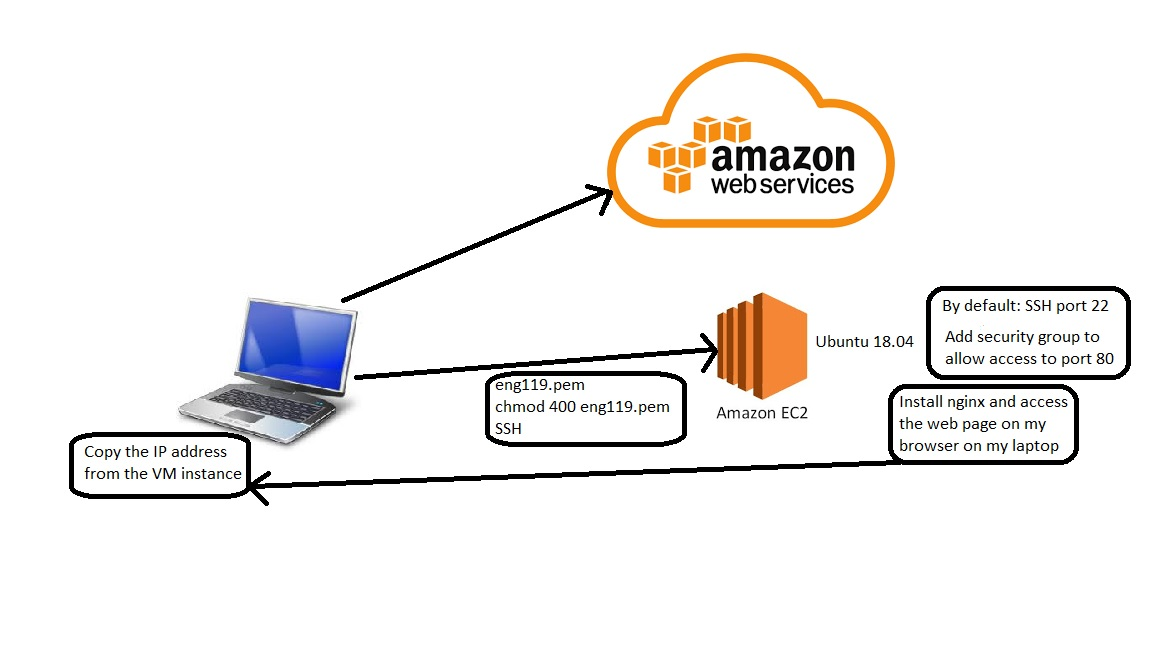
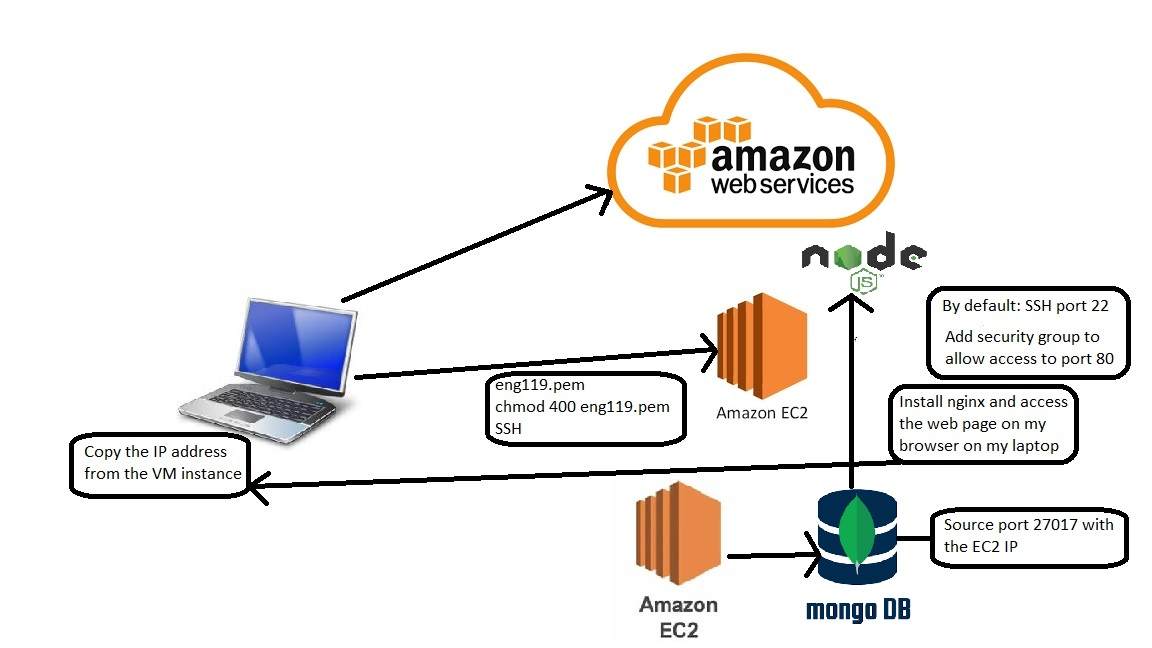
2tier arch

Changed region(s): [[0.5312, 0.3704, 1.0, 0.9877]]

diff --git a/README.md b/README.md
@@ -150,16 +150,11 @@ The client will give us the especifications according to 3 constrains:
 # 1 
 
 - Every day the IP address changes
-- I need to reselect the IP for the security group to allow it
+- I need to reselect the IP for the security group to allow it (my ip)
 - scp file.pem localhost/address destination/address
-cp app home/ubuntu/app
 
-scp -i ~/.ssh/eng119.pem -r ~/DevOps/devops/starter-code/app ubuntu@ec2-3-249-220-177.eu-west-1.compute.amazonaws.com:~/home/ubuntu/app
-
-
-
-"C:\DevOps\devops\starter-code\app"
-"C:\DevOps\devops\app"
+from root:
+scp -i ~/.ssh/eng119.pem -r ~/Documents/app ubuntu@ec2-34-254-200-213.eu-west-1.compute.amazonaws.com:~/devops/app
 
 rsaync also can be used
 - enter new IP
@@ -181,16 +176,7 @@ spin up a new EC2 instance in eu-west-1 (Ireland)
 create a security group to allow required ports 27017
 port 22
 
-
 export DB_HOST=mongodb://3.248.187.17:27017/posts
-
-VM
-ssh -i "eng119.pem" ubuntu@ec2-3-249-220-177.eu-west-1.compute.amazonaws.com
-3.249.220.177
-
-DB
-ssh -i "eng119.pem" ubuntu@ec2-3-248-187-17.eu-west-1.compute.amazonaws.com
-3-248-187-17
 
 # Create 2 new instances and do everything again
 
@@ -203,24 +189,12 @@ Add port 80, allow from anywhere
 
 Custom TCP Rule: 27017  IP/32
 
-VM Public IP address = 52.48.86.22
-ssh -i "eng119.pem" ubuntu@ec2-52-48-86-22.eu-west-1.compute.amazonaws.com
-
-2) Create a new instance to install the Mongo database
-
-- create a new security group and add the VM IP address
-
-DB = 3.249.117.186
-ssh -i "eng119.pem" ubuntu@ec2-3-249-117-186.eu-west-1.compute.amazonaws.com
-
-
-
-
-3) Copy the app files into the VM
+2) Copy the app files into the VM
 
 - clone the repository into the VM
 - install nginx `sudo apt-get install nginx`
 - install nodejs 
+
 `sudo apt install software-properties-common -y 
 curl -sL https://deb.nodesource.com/setup_12.x | sudo -E bash -
 sudo apt-get install nodejs -y`
@@ -229,17 +203,14 @@ sudo apt-get install nodejs -y`
 - start npm
 - the app should be available on port 3000
 
+3) Create a new EC2 instance to install Mongodb on it
 
-4) Create a new EC2 instance to install Mongodb on it
-
-5) Create a new security group for the new EC2 instance
+- Create a new security group for the new EC2 instance
 
 - configure 2 rules: 
 
 1- SSH, port 22, myIP
-2- HTTP, PORT 27017 
-
-
+2- HTTP, PORT 27017: allow the EC2 with the app to connect with the db
 
 
     sudo apt-key adv --keyserver hkp://keyserver.ubuntu.com:80 --recv D68FA50FEA312927
@@ -248,16 +219,215 @@ sudo apt-get install nodejs -y`
     
     sudo apt-get install -y mongodb-org=3.2.20 mongodb-org-server=3.2.20 mongodb-org-shell=3.2.20 mongodb-org-mongos=3.2.20 mongodb-org-tools=3.2.20
 
-sudo systemctl mongod status active
 
 export DB_HOST=mongodb://34.242.3.202:27017/posts
 
 node app.js
 
-config.sys: change to 0.0.0.0
+create env DB_HOST:mongodb://db-ip-add:27017/posts
 
-printvar 
+cd /etc
+sudo nano mongo.conf
+config.sys: 
+# network interfaces
+bindIp: 0.0.0.0
+change to 0.0.0.0
 
+(check if the changes were saved)
+cat mongo.conf
+
+restart mongodb
+
+
+sudo systemctl start mongod
+sudo systemctl restart mongod
+sudo systemctl enable mongod
+sudo systemctl status mongod
+
+if I need to stop the nginx process
+
+ps aux
+get the node id
+sudo kill id=1282
+
+
+# Amazon Machine Images (AMI)
+
+## Building an AMI
+
+/app
+(put the ip from the data instance)
+sudo echo "export DB_HOST=mongodb://54.75.82.219:27017/posts" >> ~/.bashrc
+source ~/.bashrc
+printenv DB_HOST
+
+sre_jenkins_cicd
+/environment/db
+
+
+# Architecting on AWS: Building a Two-Tier Application
+
+Add diagram 1 - 2
+
+This is an example of architecting on AWS to build a common two-tier application deployment.
+
+The notion of a scalable, on-demand, pay-as-you-go cloud infrastructure tends to be easily understood by the majority of today’s IT specialists. However, in order to fully reap the benefits from hosting solutions in the cloud, you will have to rethink traditional ‘on-premises’ design approaches. This should happen for a variety of reasons with the most prominent ones the design-for-costs or the adoption of a design-for-failure approach.
+
+A two-tier architecture is a software architecture in which a presentation layer or interface runs on a client, and a data layer or data structure gets stored on a server. Separating these two components into different locations represents a two-tier architecture, as opposed to a single-tier architecture.
+
+On the client application side the code is written for saving the data in the SQL server database. Client sends the request to the server and it processes the request & sends it back with data. The main problem of two tier architecture is the server cannot respond to multiple requests at the same time, as a result it causes a data integrity issue.
+
+It’s also called server-client technology.
+
+Advantages:
+
+-Easy to maintain and modification is bit easy
+-Communication is faster
+
+Disadvantages:
+
+-In two tier architecture application performance will be degraded as soon as the number of users increases.
+-Cost-ineffective
+
+## 1) Client Application (Client Tier)
+
+I will create an EC2 instance and install nginx, which is an open-source web server that can also be used as a reverse proxy.
+It's open source and free to use, so anyone can download and install the software and use it to host a website. 
+The NGINX software has not been installed on your computer – it runs only on computers that are serving web pages.
+
+I also need to move the files with the web application from my laptop into the EC2 instance. 
+The Unix command scp (which stands for "secure copy protocol") is a simple tool for uploading or downloading files.
+
+`scp -i ~/.ssh/eng119.pem -r ~/Downloads/app ubuntu@ec2-54-74-247-127.eu-west-1.compute.amazonaws.com:~`
+
+SSH into the EC2 instance and install all the required dependencies:
+
+- Check if I have internet access into the EC2 instance: `sudo apt-get update` `sudo apt-get upgrade`
+- Nginx (web server): `sudo apt-get install nginx`
+- Nodejs: 
+
+`sudo apt install software-properties-common -y`
+`curl -sL https://deb.nodesource.com/setup_12.x | sudo -E bash -`
+`sudo apt-get install nodejs -y`
+
+- Npm:
+
+`sudo apt-get install npm`
+`sudo apt-get start npm`
+
+I have to add the security rules to allow the application to use port 3000 on the EC2 instance public ip.
+
+I will also use Nginx as a reverse proxy: 
+
+Within the server block you should have an existing location / block. 
+Replace the contents of that block with the following configuration:
+
+location / {
+        proxy_pass http://localhost:3000; 
+        proxy_http_version 1.1;
+        proxy_set_header Upgrade $http_upgrade;
+        proxy_set_header Connection 'upgrade';
+        proxy_set_header Host $host;
+        proxy_cache_bypass $http_upgrade;
+}
+
+I will an additional location block to the same server block to provide access to other applications on the same server.
+
+location / fibonacci/:n {
+        proxy_pass http://localhost:3000; 
+        proxy_http_version 1.1;
+        proxy_set_header Upgrade $http_upgrade;
+        proxy_set_header Connection 'upgrade';
+        proxy_set_header Host $host;
+        proxy_cache_bypass $http_upgrade;
+}
+
+- Make sure I didn’t introduce any syntax errors by typing: `sudo nginx -t`
+
+- Restart nginx `sudo systemctl restart nginx`
+
+## 2) Database Tier (Data Tier)
+
+### Create a new EC2 instance to install Mongodb on it
+
+MongoDB is a general-purpose, NoSQL database that provides support for JSON-styled, document-oriented storage systems. Its flexible data model enables you to store data of any structure, and it provides full index support, sharding, and replication.
+
+- Choose a different security group for the new EC2 instance
+
+- configure 2 rules: 
+
+1- SSH, port 22, myIP
+2- HTTP, PORT 27017: allow the EC2 with the app to connect with the db: provide the ip of the EC2 of the client tier (with the node app)
+
+### Install Mongodb:
+
+sudo apt-key adv --keyserver hkp://keyserver.ubuntu.com:80 --recv D68FA50FEA312927
+echo "deb https://repo.mongodb.org/apt/ubuntu xenial/mongodb-org/3.2 multiverse"| sudo tee /etc/apt/sources.list.d/mongodb-org-3.2.list
+sudo apt-get install -y mongodb-org=3.2.20 mongodb-org-server=3.2.20 mongodb-org-shell=3.2.20 mongodb-org-mongos=3.2.20 mongodb-org-tools=3.2.20
+
+sudo apt-key adv --keyserver hkp://keyserver.ubuntu.com:80 --recv 9DA31620334BD75D9DCB49F368818C72E52529D4
+sudo add-apt-repository 'deb [arch=amd64] https://repo.mongodb.org/apt/ubuntu bionic/mongodb-org/4.0 multiverse'
+sudo apt update
+sudo apt install mongodb-org
+
+cd /etc
+sudo nano mongo.conf
+config.sys: 
+
+network interfaces:
+
+-bindIp: 0.0.0.0 (allow anybody to connect with the database)
+
+Check if the changes were saved:
+
+cat mongo.conf
+
+restart mongodb
+
+`sudo systemctl start mongod`
+`sudo systemctl restart mongod`
+`sudo systemctl enable mongod`
+`sudo systemctl status mongod`
+
+### SSH in Client tier to create an env variable
+
+- I have to SSH in the EC2 (client tier) to create an environment variable:
+
+When we run a command, any settings that you specified with environment variables take precedence over the settings stored in the configuration file.
+
+I will pass new settings to the configuration file to connect the client tier with the data tier.
+
+To set an environment variable the `export` command is used. We give the variable a name, which is what is used to access it in the app.js configuration and then a value to hold the data that is needed in the variable, which is the ip of the data tier.
+
+- Persisting Environment Variables for a User
+
+When an environment variable is set from the shell using the export command, its existence ends when the user’s sessions ends. This is problematic when we need the variable to persist across sessions.
+
+To make an environment persistent for a user’s environment, we export the variable from the user’s profile script.
+
+Adding the environment variable to a user’s bash profile alone will not export it automatically. However, the variable will be exported the next time the user logs in.
+
+In order to set a permanent environment variable in Bash, I have to use the export command and add it either to my “.bashrc” file
+
+To immediately apply all changes to bash_profile for my current session, I will use the source command to source my .bashrc file.
+
+
+create environment variable = DB_HOST
+(put the ip from the data tier)
+
+`sudo echo "export DB_HOST=mongodb://54.75.82.219:27017/posts" >> ~/.bashrc`
+
+`source ~/.bashrc`
+
+printenv DB_HOST
+
+
+
+if I need to stop the nginx process
+
+ps aux
+get the node id
+sudo kill id=1282
 
 
 
